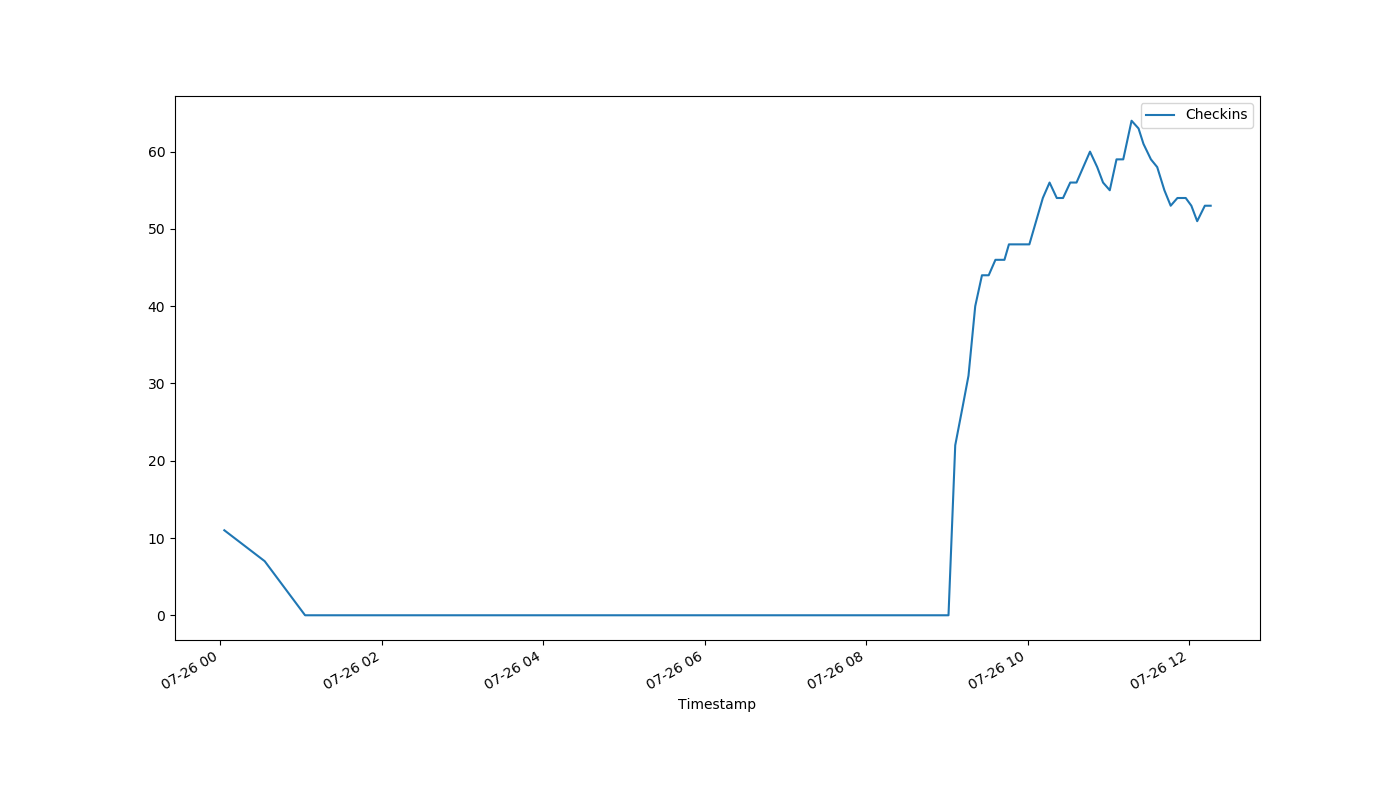
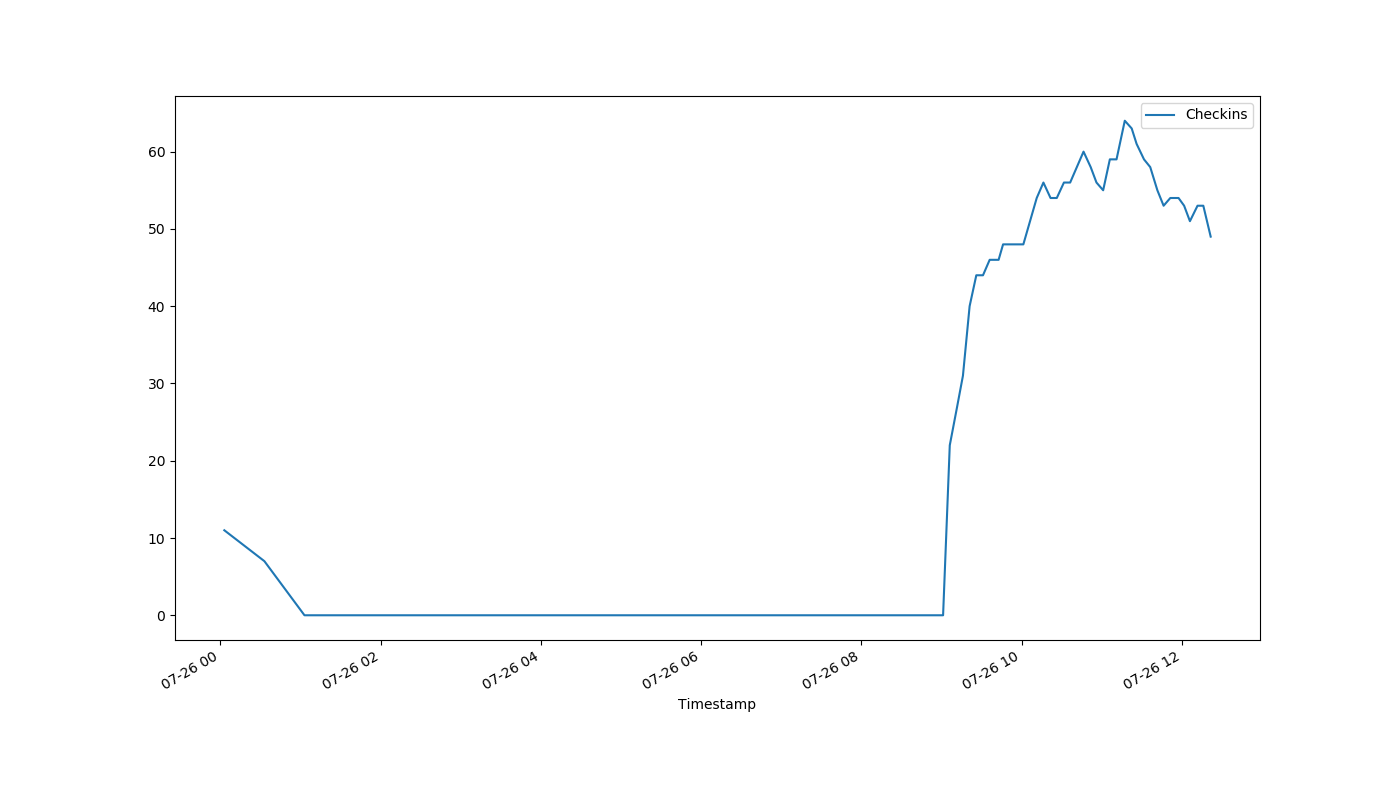
auto-Jul-26-12:23:18

diff --git a/index.html b/index.html
@@ -1,1 +1,1 @@
-<!DOCTYPE html><html><head><meta http-equiv="refresh" content="30"><link rel='stylesheet' href='holmcurrent.css'></head><body><p id='count'>53</p><div id='graph-wrap'><img id='graph' src='holmgraph-Jul-26.png'></div><p id='updated'>Last updated 12:17:01 / 12:16:01</p></body></html>
+<!DOCTYPE html><html><head><meta http-equiv="refresh" content="30"><link rel='stylesheet' href='holmcurrent.css'></head><body><p id='count'>49</p><div id='graph-wrap'><img id='graph' src='holmgraph-Jul-26.png'></div><p id='updated'>Last updated 12:22:01 / 12:21:32</p></body></html>
